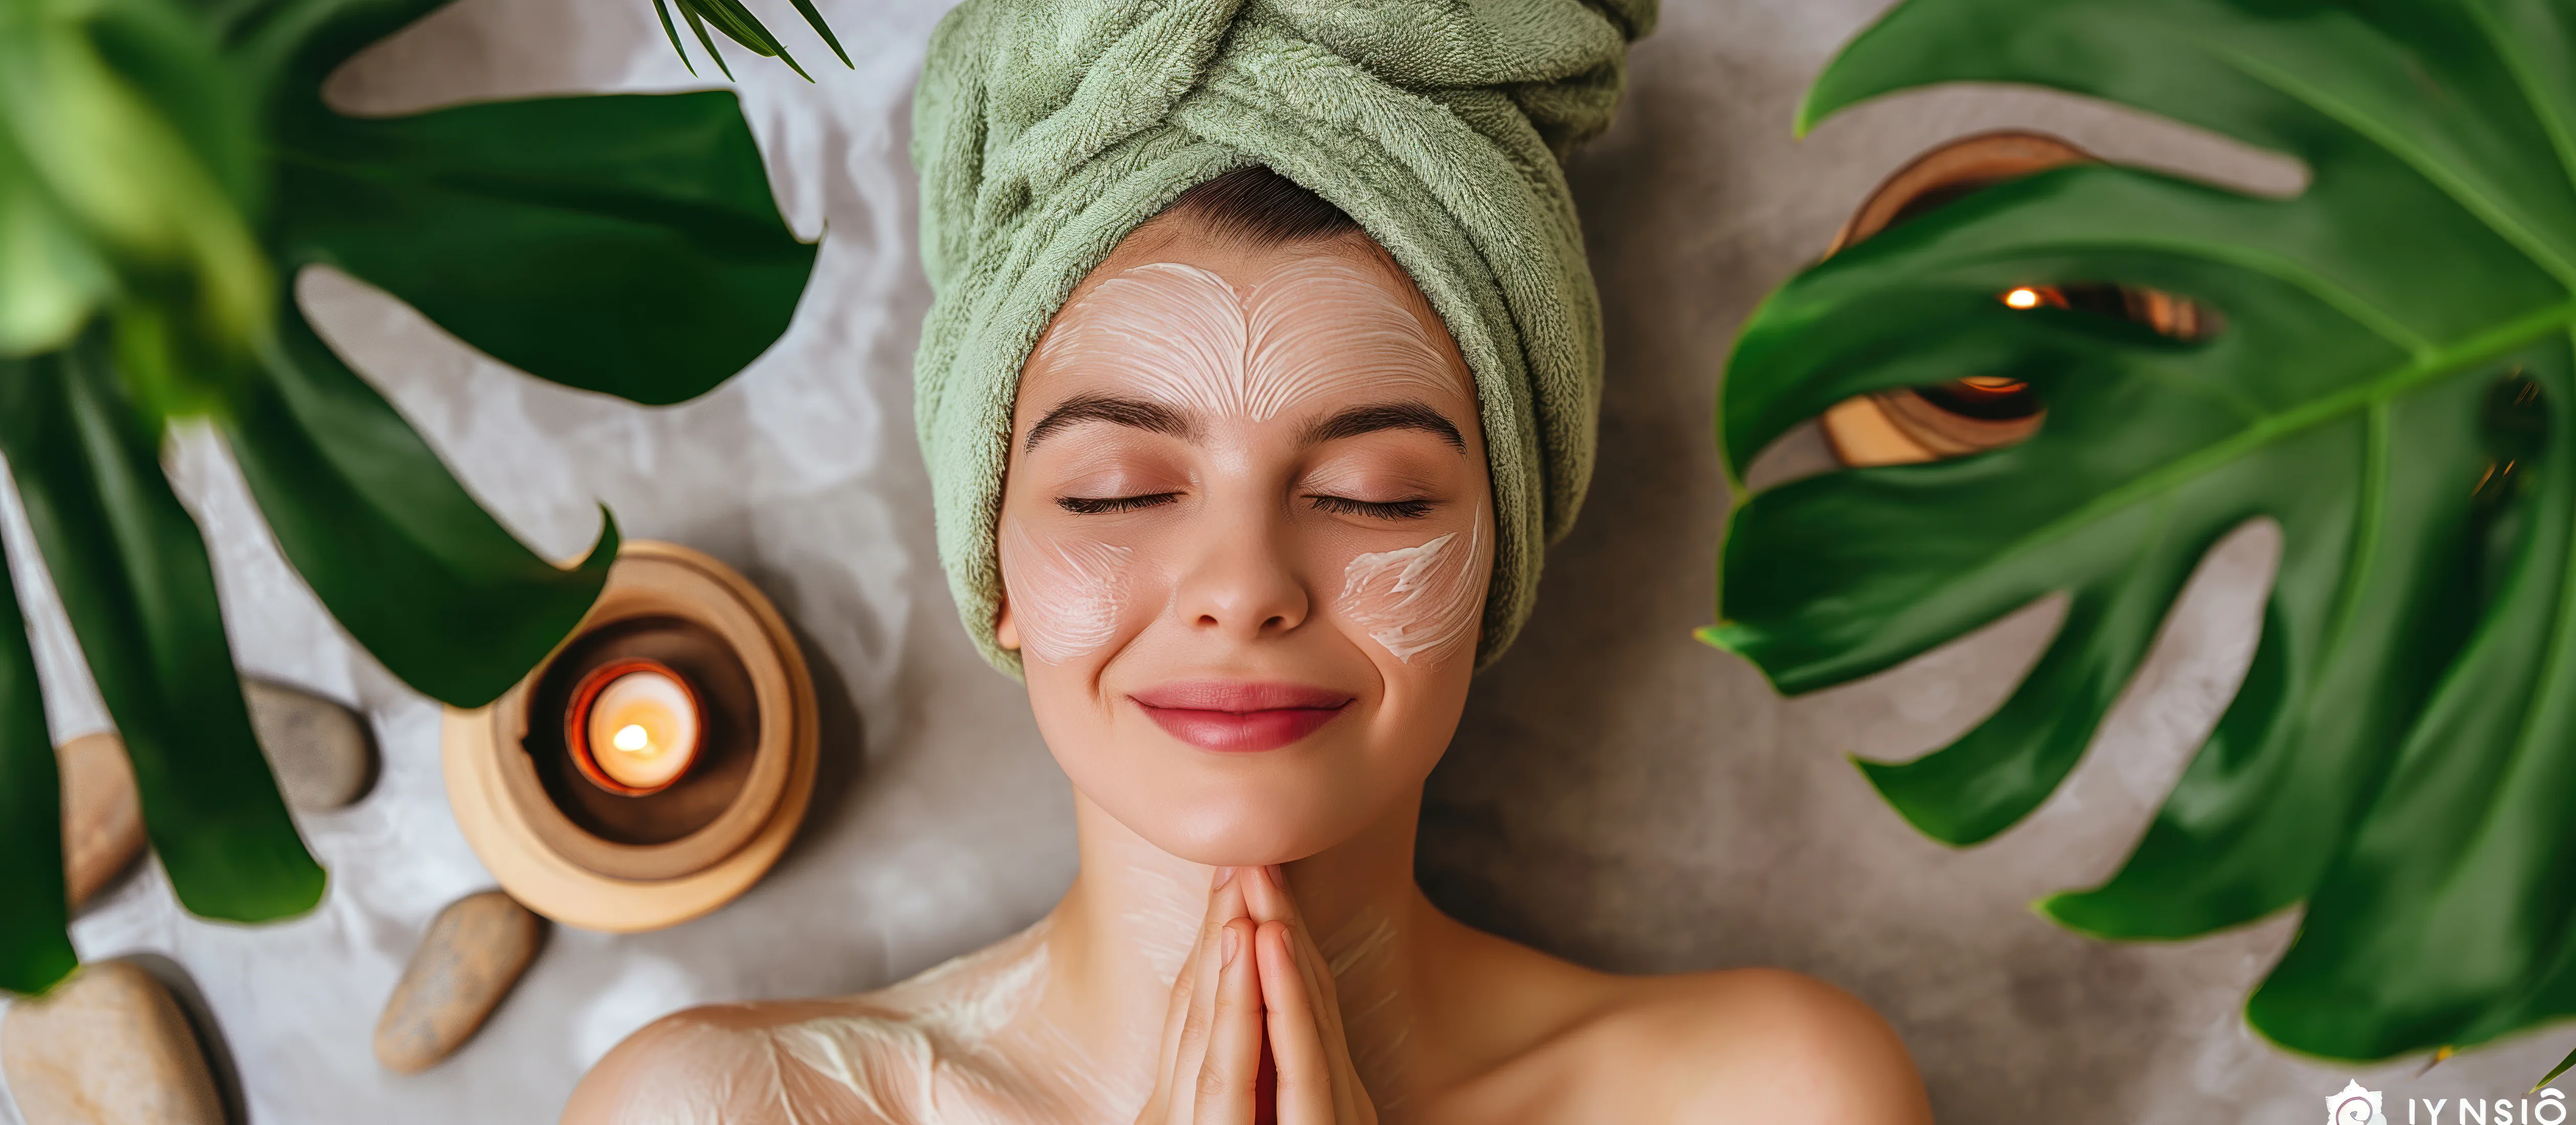
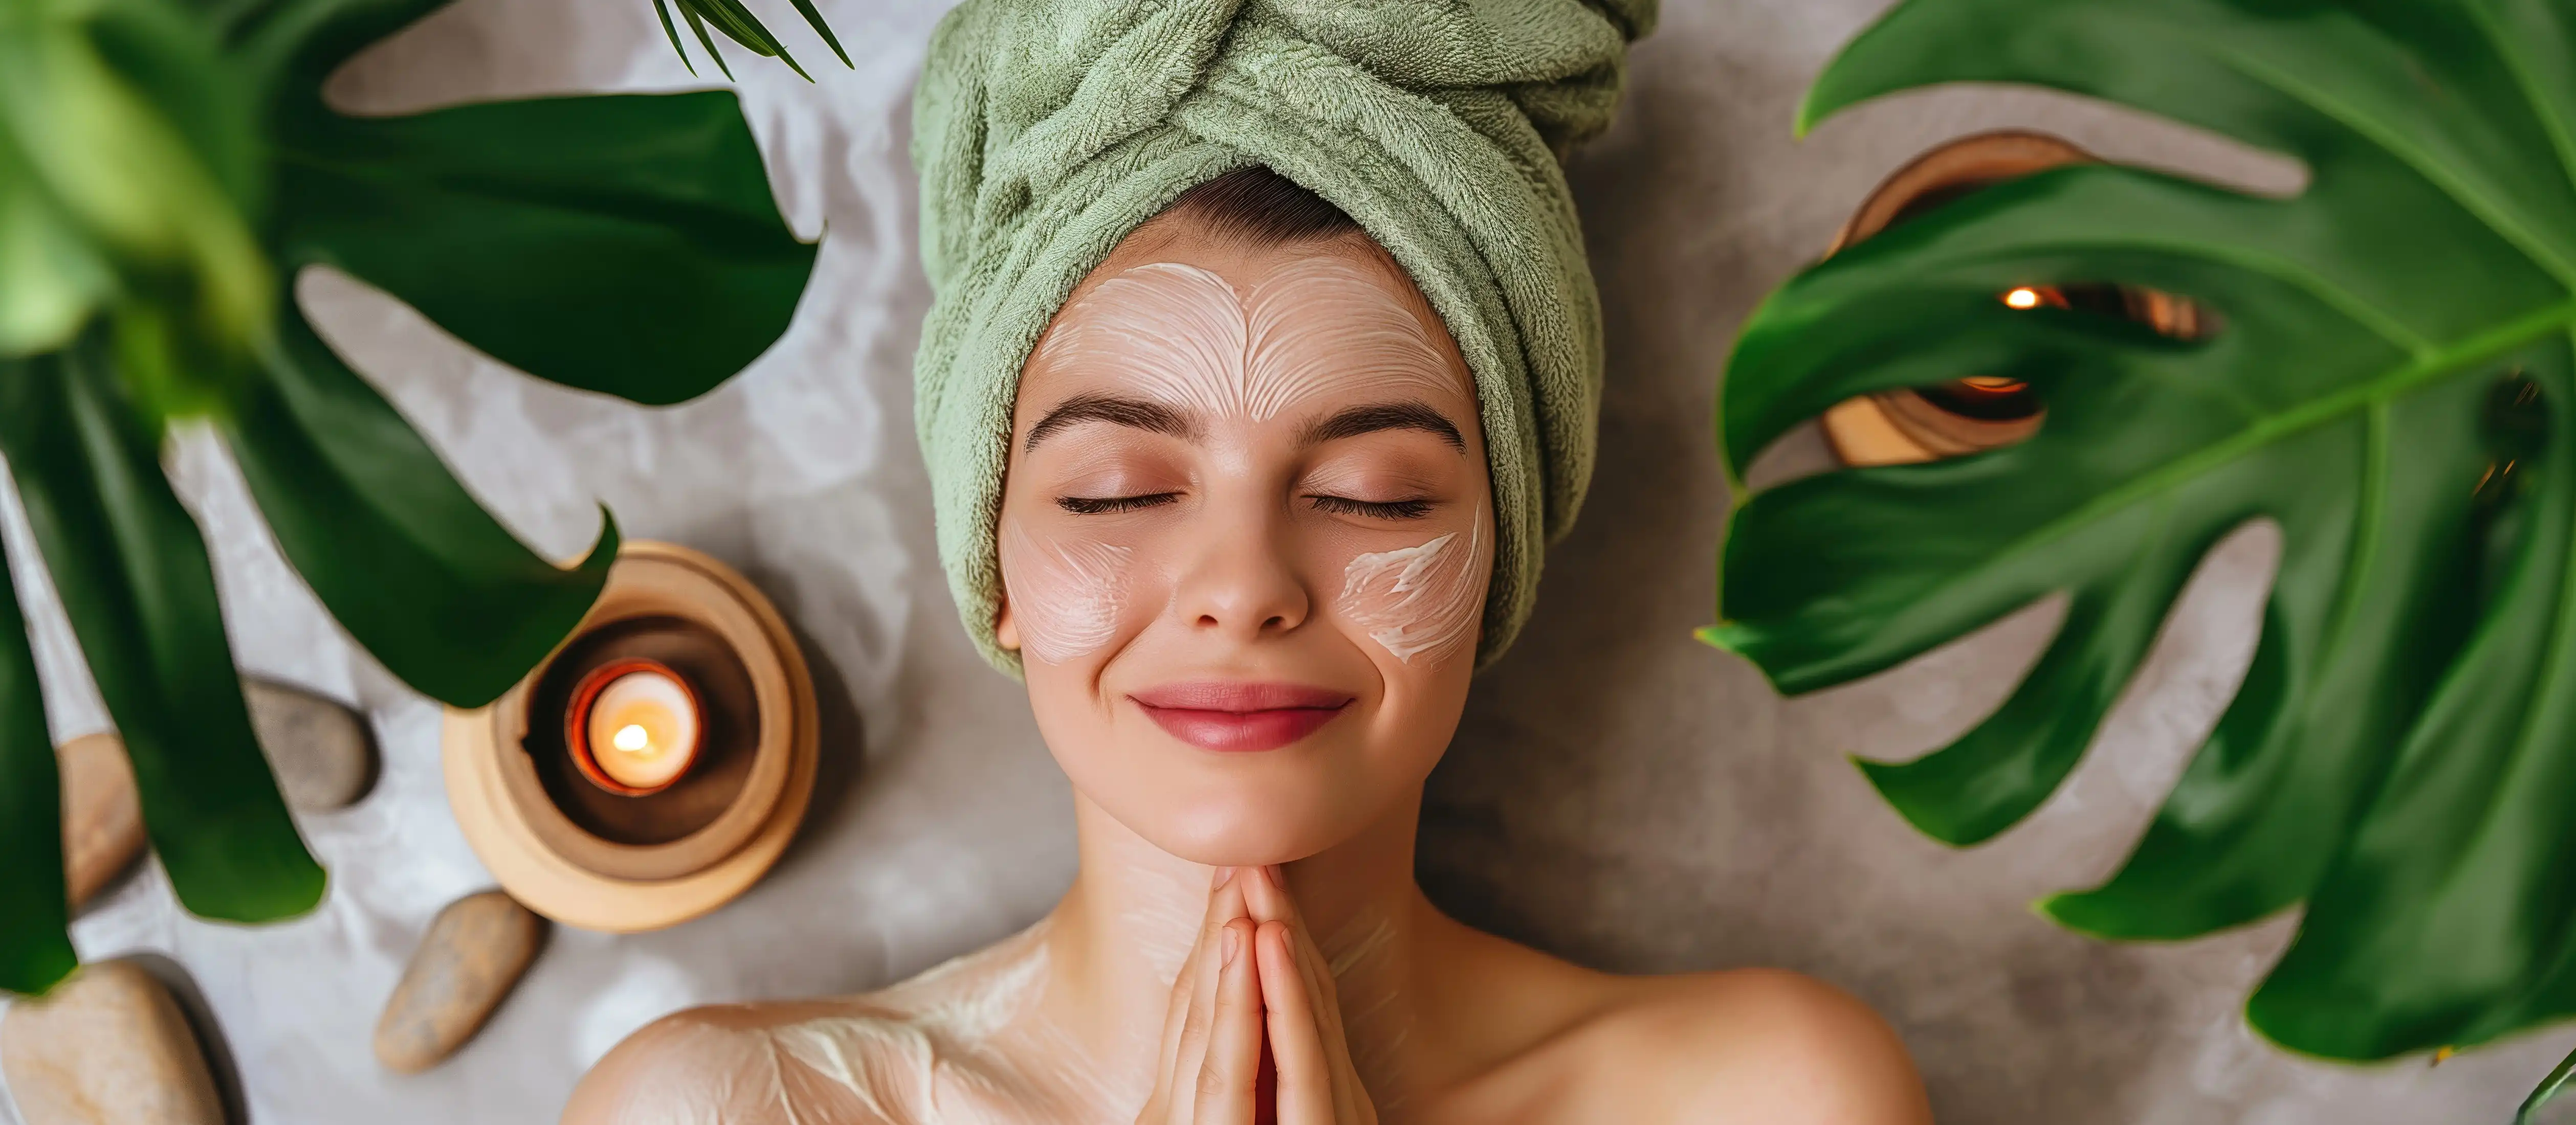
feat: Integrate WhatsApp chat and update image paths for services
- Added WhatsApp chat component to the layout for improved customer interaction.
- Removed WhatsApp chat from the Home page to streamline the layout.
- Updated background images for Skin & Body Care and Hair Care services to new paths for better organization.
- Enhanced accessibility and styling in the Contact component with tracking adjustments for better readability.
- Introduced a Google Reviews button in the Testimonials component to encourage customer feedback.

Changed region(s): [[0.9043, 0.9273, 1.0, 1.0]]

diff --git a/components/Contact.tsx b/components/Contact.tsx
@@ -102,7 +102,7 @@ Message: ${formData.message}`;
       <div className="px-4 sm:px-6 lg:px-8">
         {/* Header */}
         <div className="text-center mb-16 fade-in-section">
-          <h2 className="text-4xl lg:text-5xl font-serif font-bold text-white mb-4">
+          <h2 className="text-4xl lg:text-5xl font-serif font-bold text-white mb-4 tracking-widest">
             Contact Us
           </h2>
           <div className="w-20 h-1 bg-gradient-to-r from-[#77530a] to-[#ffd277] mx-auto mb-6"></div>
@@ -114,7 +114,7 @@ Message: ${formData.message}`;
         <div className="grid grid-cols-1 lg:grid-cols-2 gap-12 lg:mx-16">
           {/* Contact Information */}
           <div className="fade-in-section">
-            <h3 className="text-2xl font-serif font-bold text-babu-primary mb-8">Get In Touch</h3>
+            <h3 className="text-2xl font-serif font-bold text-babu-primary mb-8 tracking-widest">Get In Touch</h3>
 
             {/* Branch Switches */}
             <div className="flex justify-center mb-8 px-2">
@@ -172,8 +172,8 @@ Message: ${formData.message}`;
                   <MapPin className="w-6 h-6" />
                 </div>
                                   <div>
-                    <h4 className="text-lg font-semibold text-babu-primary mb-1">Address</h4>
-                    <div className="text-gray-300">
+                    <h4 className="text-lg font-semibold text-babu-primary mb-1 tracking-widest">Address</h4>
+                    <div className="text-gray-300 tracking-widest">
                       {salonBranches[activeContactLocation].address.split('\n').map((line, index) => (
                         <p key={index} className={index > 0 ? 'mt-1' : ''}>
                           {line}
@@ -189,10 +189,10 @@ Message: ${formData.message}`;
                   <Phone className="w-6 h-6" />
                 </div>
                 <div>
-                  <h4 className="text-lg font-semibold text-babu-primary mb-1">Phone</h4>
+                  <h4 className="text-lg font-semibold text-babu-primary mb-1 tracking-widest">Phone</h4>
                   <a
                     href={`tel:${salonBranches[activeContactLocation].phone.split(',')[0]}`}
-                    className="text-lg text-gray-300 hover:text-babu-teal transition-colors tracking-wide"
+                    className="text-lg text-gray-300 hover:text-babu-teal transition-colors tracking-widest"
                   >
                     {salonBranches[activeContactLocation].phone}
                   </a>
@@ -205,10 +205,10 @@ Message: ${formData.message}`;
                   <Mail className="w-6 h-6" />
                 </div>
                 <div>
-                  <h4 className="text-lg font-semibold text-babu-primary mb-1">Email</h4>
+                  <h4 className="text-lg font-semibold text-babu-primary mb-1 tracking-widest">Email</h4>
                   <a
                     href={`mailto:${salonBranches[activeContactLocation].email}`}
-                    className="text-gray-300 hover:text-babu-teal transition-colors"
+                    className="text-gray-300 hover:text-babu-teal transition-colors tracking-widest"
                   >
                     {salonBranches[activeContactLocation].email}
                   </a>
@@ -221,8 +221,8 @@ Message: ${formData.message}`;
                   <Clock className="w-6 h-6" />
                 </div>
                 <div>
-                  <h4 className="text-lg font-semibold text-babu-primary mb-1">Working Hours</h4>
-                  <div className="text-gray-300">
+                  <h4 className="text-lg font-semibold text-babu-primary mb-1 tracking-widest">Working Hours</h4>
+                  <div className="text-gray-300 tracking-widest">
                     <p>{salonBranches[activeContactLocation].workingHours}</p>
                   </div>
                 </div>
@@ -236,17 +236,17 @@ Message: ${formData.message}`;
                 target="_blank"
                 rel="noopener noreferrer"
                 aria-label={`Book salon appointment on WhatsApp at ${salonBranches[activeContactLocation].name}`}
-                className="flex items-center justify-center space-x-2 bg-[#25D366] hover:bg-[#1ebe57] text-white px-6 py-3 rounded-full transition-all duration-300 w-full hover:scale-105 tracking-wider"
+                className="flex items-center justify-center space-x-2 bg-[#25D366] hover:bg-[#1ebe57] text-white px-6 py-3 rounded-full transition-all duration-300 w-full hover:scale-105 tracking-widest"
               >
                 <WhatsAppIcon className="w-5 h-5" />
-                <span>WhatsApp</span>
+                <span className="tracking-widest">WhatsApp</span>
               </a>
               <a
                 href={`tel:${salonBranches[activeContactLocation].phone.split(',')[0]}`}
-                className="flex items-center justify-center space-x-2 bg-gradient-to-r from-[#77530a] to-[#ffd277] hover:from-[#ffd277] hover:to-[#77530a] text-white px-6 py-3 rounded-full font-semibold transition-all duration-300 w-full hover:scale-105"
+                className="flex items-center justify-center space-x-2 bg-gradient-to-r from-[#77530a] to-[#ffd277] hover:from-[#ffd277] hover:to-[#77530a] text-black px-6 py-3 rounded-full font-normal transition-all duration-300 w-full hover:scale-105 tracking-widest"
               >
                 <Phone className="w-5 h-5" />
-                <span>Call Now</span>
+                <span className="tracking-widest">Call Now</span>
               </a>
             </div>
           </div>
@@ -254,12 +254,12 @@ Message: ${formData.message}`;
           {/* Contact Form */}
           <div className="fade-in-section">
             <div className="bg-black border border-white/10 p-8 rounded-2xl shadow-xl">
-              <h3 className="text-2xl font-serif font-bold text-white mb-6">Book Appointment</h3>
+              <h3 className="text-2xl font-serif font-bold text-white mb-6 tracking-widest">Book Appointment</h3>
 
               <form onSubmit={handleSubmit} className="space-y-6 tracking-widest">
                 <div className="grid grid-cols-1 sm:grid-cols-2 gap-4">
                   <div>
-                    <label htmlFor="name" className="block text-sm font-medium text-white mb-2">
+                    <label htmlFor="name" className="block text-sm font-medium text-white mb-2 tracking-widest">
                       Full Name *
                     </label>
                     <input
@@ -274,7 +274,7 @@ Message: ${formData.message}`;
                     />
                   </div>
                   <div>
-                    <label htmlFor="phone" className="block text-sm font-medium text-white mb-2">
+                    <label htmlFor="phone" className="block text-sm font-medium text-white mb-2 tracking-widest">
                       Phone Number *
                     </label>
                     <input
@@ -291,7 +291,7 @@ Message: ${formData.message}`;
                 </div>
 
                 <div>
-                  <label htmlFor="email" className="block text-sm font-medium text-white mb-2">
+                  <label htmlFor="email" className="block text-sm font-medium text-white mb-2 tracking-widest">
                     Email Address
                   </label>
                   <input
@@ -306,7 +306,7 @@ Message: ${formData.message}`;
                 </div>
 
                 <div>
-                  <label htmlFor="service" className="block text-sm font-medium text-white mb-2">
+                  <label htmlFor="service" className="block text-sm font-medium text-white mb-2 tracking-widest">
                     Service Required *
                   </label>
                   <select
@@ -327,7 +327,7 @@ Message: ${formData.message}`;
                 </div>
 
                 <div>
-                  <label htmlFor="message" className="block text-sm font-medium text-white mb-2">
+                  <label htmlFor="message" className="block text-sm font-medium text-white mb-2 tracking-widest">
                     Additional Message
                   </label>
                   <textarea
@@ -343,10 +343,10 @@ Message: ${formData.message}`;
 
                 <button
                   type="submit"
-                  className="w-full bg-gradient-to-r from-[#77530a] to-[#ffd277] hover:from-[#ffd277] hover:to-[#77530a] text-white px-8 py-4 rounded-lg transition-all duration-300 flex items-center justify-center space-x-2 hover:scale-105 tracking-widest"
+                  className="w-full bg-gradient-to-r from-[#77530a] to-[#ffd277] hover:from-[#ffd277] hover:to-[#77530a] text-black px-8 py-4 rounded-lg transition-all duration-300 flex items-center justify-center space-x-2 hover:scale-105 tracking-widest font-normal"
                 >
                   <Send className="w-5 h-5" />
-                  <span>Send Message</span>
+                  <span className="tracking-widest">Send Message</span>
                 </button>
               </form>
             </div>
@@ -356,7 +356,7 @@ Message: ${formData.message}`;
         {/* Map Section */}
         <div className="mt-16 fade-in-section relative left-1/2 right-1/2 -translate-x-1/2 w-full">
           <div className="bg-black border border-white/10 p-4 rounded-2xl shadow-xl">
-            <h3 className="text-2xl font-serif font-bold text-white mb-6 text-center">Find Us</h3>
+            <h3 className="text-2xl font-serif font-bold text-white mb-6 text-center tracking-widest">Find Us</h3>
 
             {/* Location Tabs */}
             <div className="flex justify-center mb-6 px-2">
@@ -456,10 +456,10 @@ Message: ${formData.message}`;
                 }
                 target="_blank"
                 rel="noopener noreferrer"
-                className="inline-flex items-center space-x-2 text-transparent bg-gradient-to-r from-[#77530a] to-[#ffd277] bg-clip-text hover:from-[#ffd277] hover:to-[#77530a] font-medium transition-all duration-300"
+                className="inline-flex items-center space-x-2 text-transparent bg-gradient-to-r from-[#77530a] to-[#ffd277] bg-clip-text hover:from-[#ffd277] hover:to-[#77530a] font-medium transition-all duration-300 tracking-widest"
               >
                 <MapPin className="w-4 h-4" />
-                <span>View on Google Maps</span>
+                <span className="tracking-widest">View on Google Maps</span>
               </a>
             </div>
           </div>

diff --git a/components/Testimonials.tsx b/components/Testimonials.tsx
@@ -221,6 +221,20 @@ const Testimonials = () => {
           </div>
         </div>
 
+                {/* Google Reviews Button */}
+                <div className="flex justify-center mt-12 fade-in-section">
+                    <a
+                        href="https://www.google.com/search?sca_esv=a844ed52de55440e&cs=0&output=search&kgmid=/g/11sv94n03_&q=BA-BU+FAMILY+SALON&shndl=30&shem=lcuae,uaasie,shrtsdl&source=sh/x/loc/uni/m1/1&kgs=1ed5c8f3d902e13e&utm_source=lcuae,uaasie,shrtsdl,sh/x/loc/uni/m1/1&sei=clIGaaP-CL7c4-EP7ImfwQM&zx=1762022005030&no_sw_cr=1#lrd=0x3b081ba5e09b9cad:0x363ca14465d8a7c,1,,,"
+                        target="_blank"
+                        rel="noopener noreferrer"
+                        className="inline-flex items-center justify-center px-8 py-4 text-base font-semibold rounded-full golden-gradient-button text-black shadow-[0_8px_30px_rgb(255,215,0,0.25)] hover:shadow-[0_10px_40px_rgb(255,215,0,0.4)] transition-all duration-300 hover:scale-110 transform focus:outline-none focus-visible:ring-2 focus-visible:ring-yellow-300 focus-visible:ring-offset-2 focus-visible:ring-offset-black tracking-wider"
+                        aria-label="View Google Reviews for BA-BU Family Salon"
+                        tabIndex={0}
+                    >
+                        View Google Reviews
+                    </a>
+                </div>
+
                 {/* Reviews summary badge removed as per request */}
             </div>
 

diff --git a/components/Services.tsx b/components/Services.tsx
@@ -35,7 +35,7 @@ const Services = () => {
             name: "Hair Care",
             description:
                 "Professional hair cutting, styling, coloring, and treatments. From basic cuts to advanced styling, we care for all hair types and textures.",
-            src: "/images/hair-care/styling/style-04.avif",
+            src: "/images/HAIRCARE/haircare-heropage.webp",
             features: ["Hair Cutting", "Hair Styling", "Hair Coloring", "Hair Treatments"],
             page: "/services/hair-care",
         },
@@ -44,7 +44,7 @@ const Services = () => {
             name: "Skin & Body Care",
             description:
                 "Rejuvenating facial treatments, spa services, and body care treatments. Professional skincare for all skin types and concerns.",
-            src: "/images/skin-care/fleur-kaan-w4Dj3MshHQ0-unsplash.webp",
+            src: "/images/SKINANDBODY/skin-body-hero.webp",
             features: [
                 "Facial Treatments",
                 "Spa Services",

diff --git a/app/page.tsx b/app/page.tsx
@@ -4,7 +4,6 @@ import About from "@/components/About";
 import Services from "@/components/Services";
 import Testimonials from "@/components/Testimonials";
 import Contact from "@/components/Contact";
-import WhatsAppChat from "@/components/WhatsAppChat";
 import ScrollToTop from "@/components/ScrollToTop";
 import GalleryPreview from "@/components/GalleryPreview";
 import BrandMarquee from "@/components/BrandMarquee";
@@ -31,7 +30,6 @@ export default function Home() {
           <Testimonials />
           <Contact />
         </main>
-        <WhatsAppChat />
         <ScrollToTop />
       </ServicesLoadingWrapper>
     </>

diff --git a/app/layout.tsx b/app/layout.tsx
@@ -6,6 +6,7 @@ import SmoothScroller from '@/components/SmoothScroller';
 import ScrollTriggerRefresh from '@/components/ScrollTriggerRefresh';
 import Header from '@/components/Header';
 import Footer from '@/components/Footer';
+import WhatsAppChat from '@/components/WhatsAppChat';
 
 const siteUrl = process.env.NEXT_PUBLIC_SITE_URL || 'https://babusalon.com';
 
@@ -75,6 +76,7 @@ export default function RootLayout({
           {children}
         </ScrollTriggerRefresh>
         <Footer />
+        <WhatsAppChat />
       </body>
     </html>
   );

diff --git a/app/services/skin-body-care/page.tsx b/app/services/skin-body-care/page.tsx
@@ -174,7 +174,7 @@ const SkinBodyCareServicePage = () => {
             <OptimizedHero
                 title="Skin & Body Care Services"
                 subtitle="Professional Skincare & Wellness Treatments"
-                backgroundImage="/images/skin-care/fleur-kaan-w4Dj3MshHQ0-unsplash.webp"
+                backgroundImage="/images/SKINANDBODY/skin-body-hero.webp"
             />
 
             {/* Cleanup & Detan Section */}

diff --git a/app/services/hair-care/page.tsx b/app/services/hair-care/page.tsx
@@ -646,7 +646,7 @@ const HairCareServicePage = () => {
                         id: "skin-body-care",
                         title: "Skin & Body Care",
                         backgroundImage:
-                            "/images/skin-care/fleur-kaan-w4Dj3MshHQ0-unsplash.webp",
+                            "/images/SKINANDBODY/skin-body-hero.webp",
                     },
                 ]}
             />

diff --git a/components/ServicesContainer.tsx b/components/ServicesContainer.tsx
@@ -77,7 +77,7 @@ const ServicesContainer = ({ className, serviceSectionsOverride }: ServicesConta
         {
             id: "skin-body-care",
             title: "Skin & Body Care",
-            backgroundImage: "/images/skin-care/fleur-kaan-w4Dj3MshHQ0-unsplash.webp",
+            backgroundImage: "/images/SKINANDBODY/skin-body-hero.webp",
         },
     ];
 

diff --git a/app/services/weddings/page.tsx b/app/services/weddings/page.tsx
@@ -418,7 +418,7 @@ const WeddingsServicePage = () => {
           {
             id: "skin-body-care",
             title: "Skin & Body Care",
-            backgroundImage: "/images/skin-care/fleur-kaan-w4Dj3MshHQ0-unsplash.webp",
+            backgroundImage: "/images/SKINANDBODY/skin-body-hero.webp",
           },
         ]}
       />
